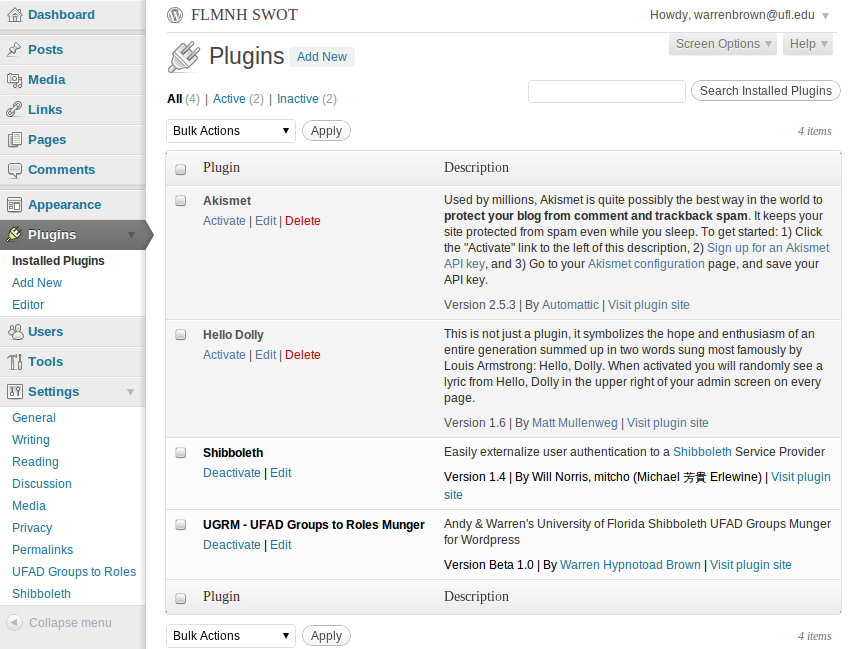
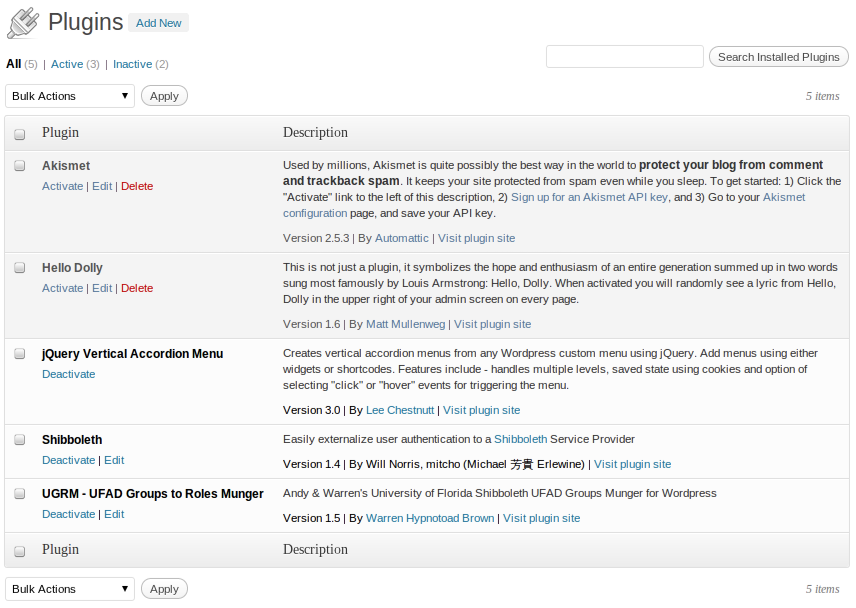
Version 1.5
git-svn-id: https://plugins.svn.wordpress.org/ugrm/trunk@478215 b8457f37-d9ea-0310-8a92-e5e31aec5664

diff --git a/UGRM.php b/UGRM.php
@@ -3,7 +3,7 @@
 Plugin Name: UGRM - UFAD Groups to Roles Munger
 Plugin URI: http://www.flmnh.ufl.edu/omt/omtforge
 Description: Andy & Warren's University of Florida Shibboleth UFAD Groups Munger for Wordpress
-Version: 1.0
+Version: 1.5
 Author: Warren Hypnotoad Brown
 Author URI: http://www.flmnh.ufl.edu/omt/omtforge
 License: GPL2
